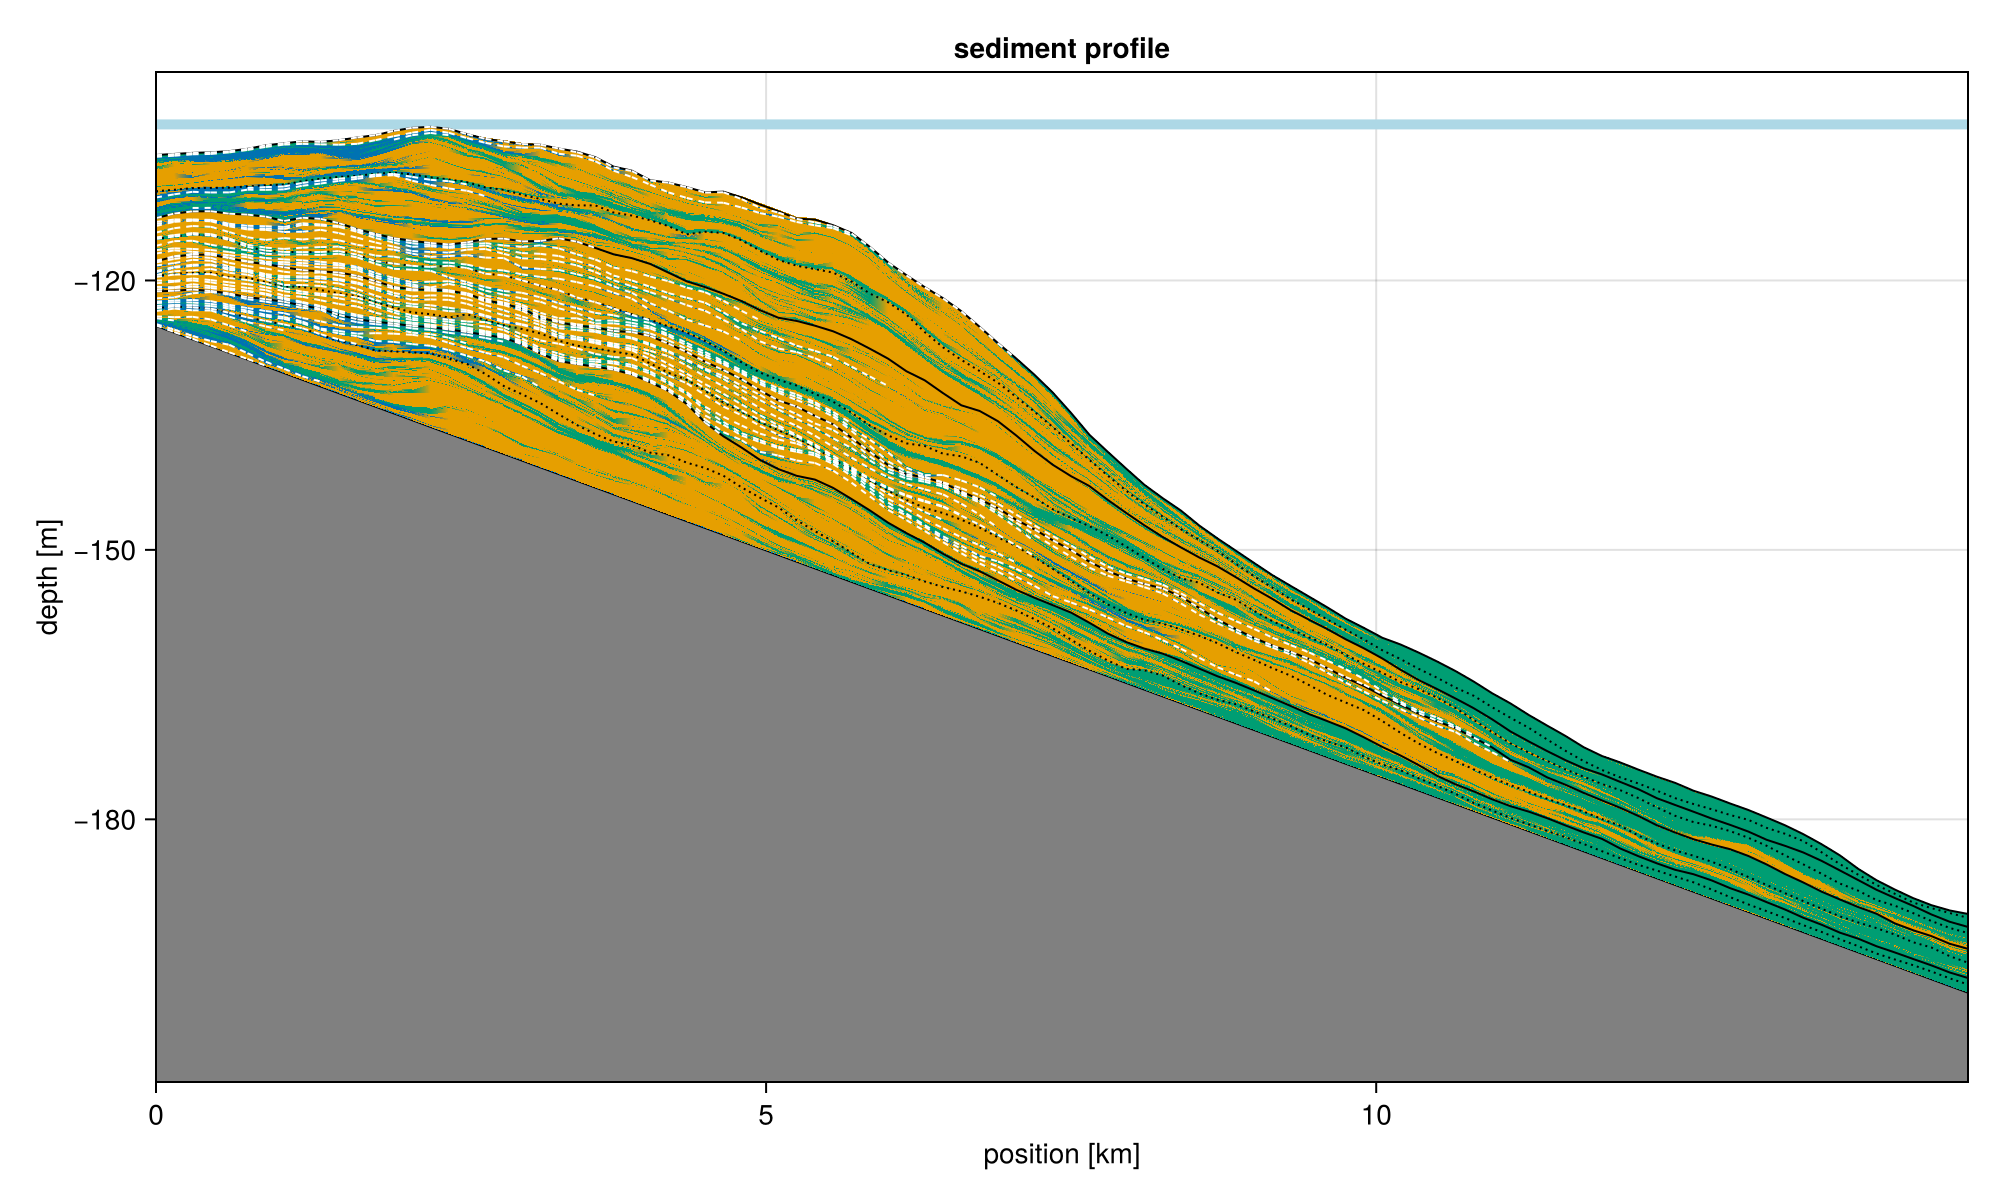
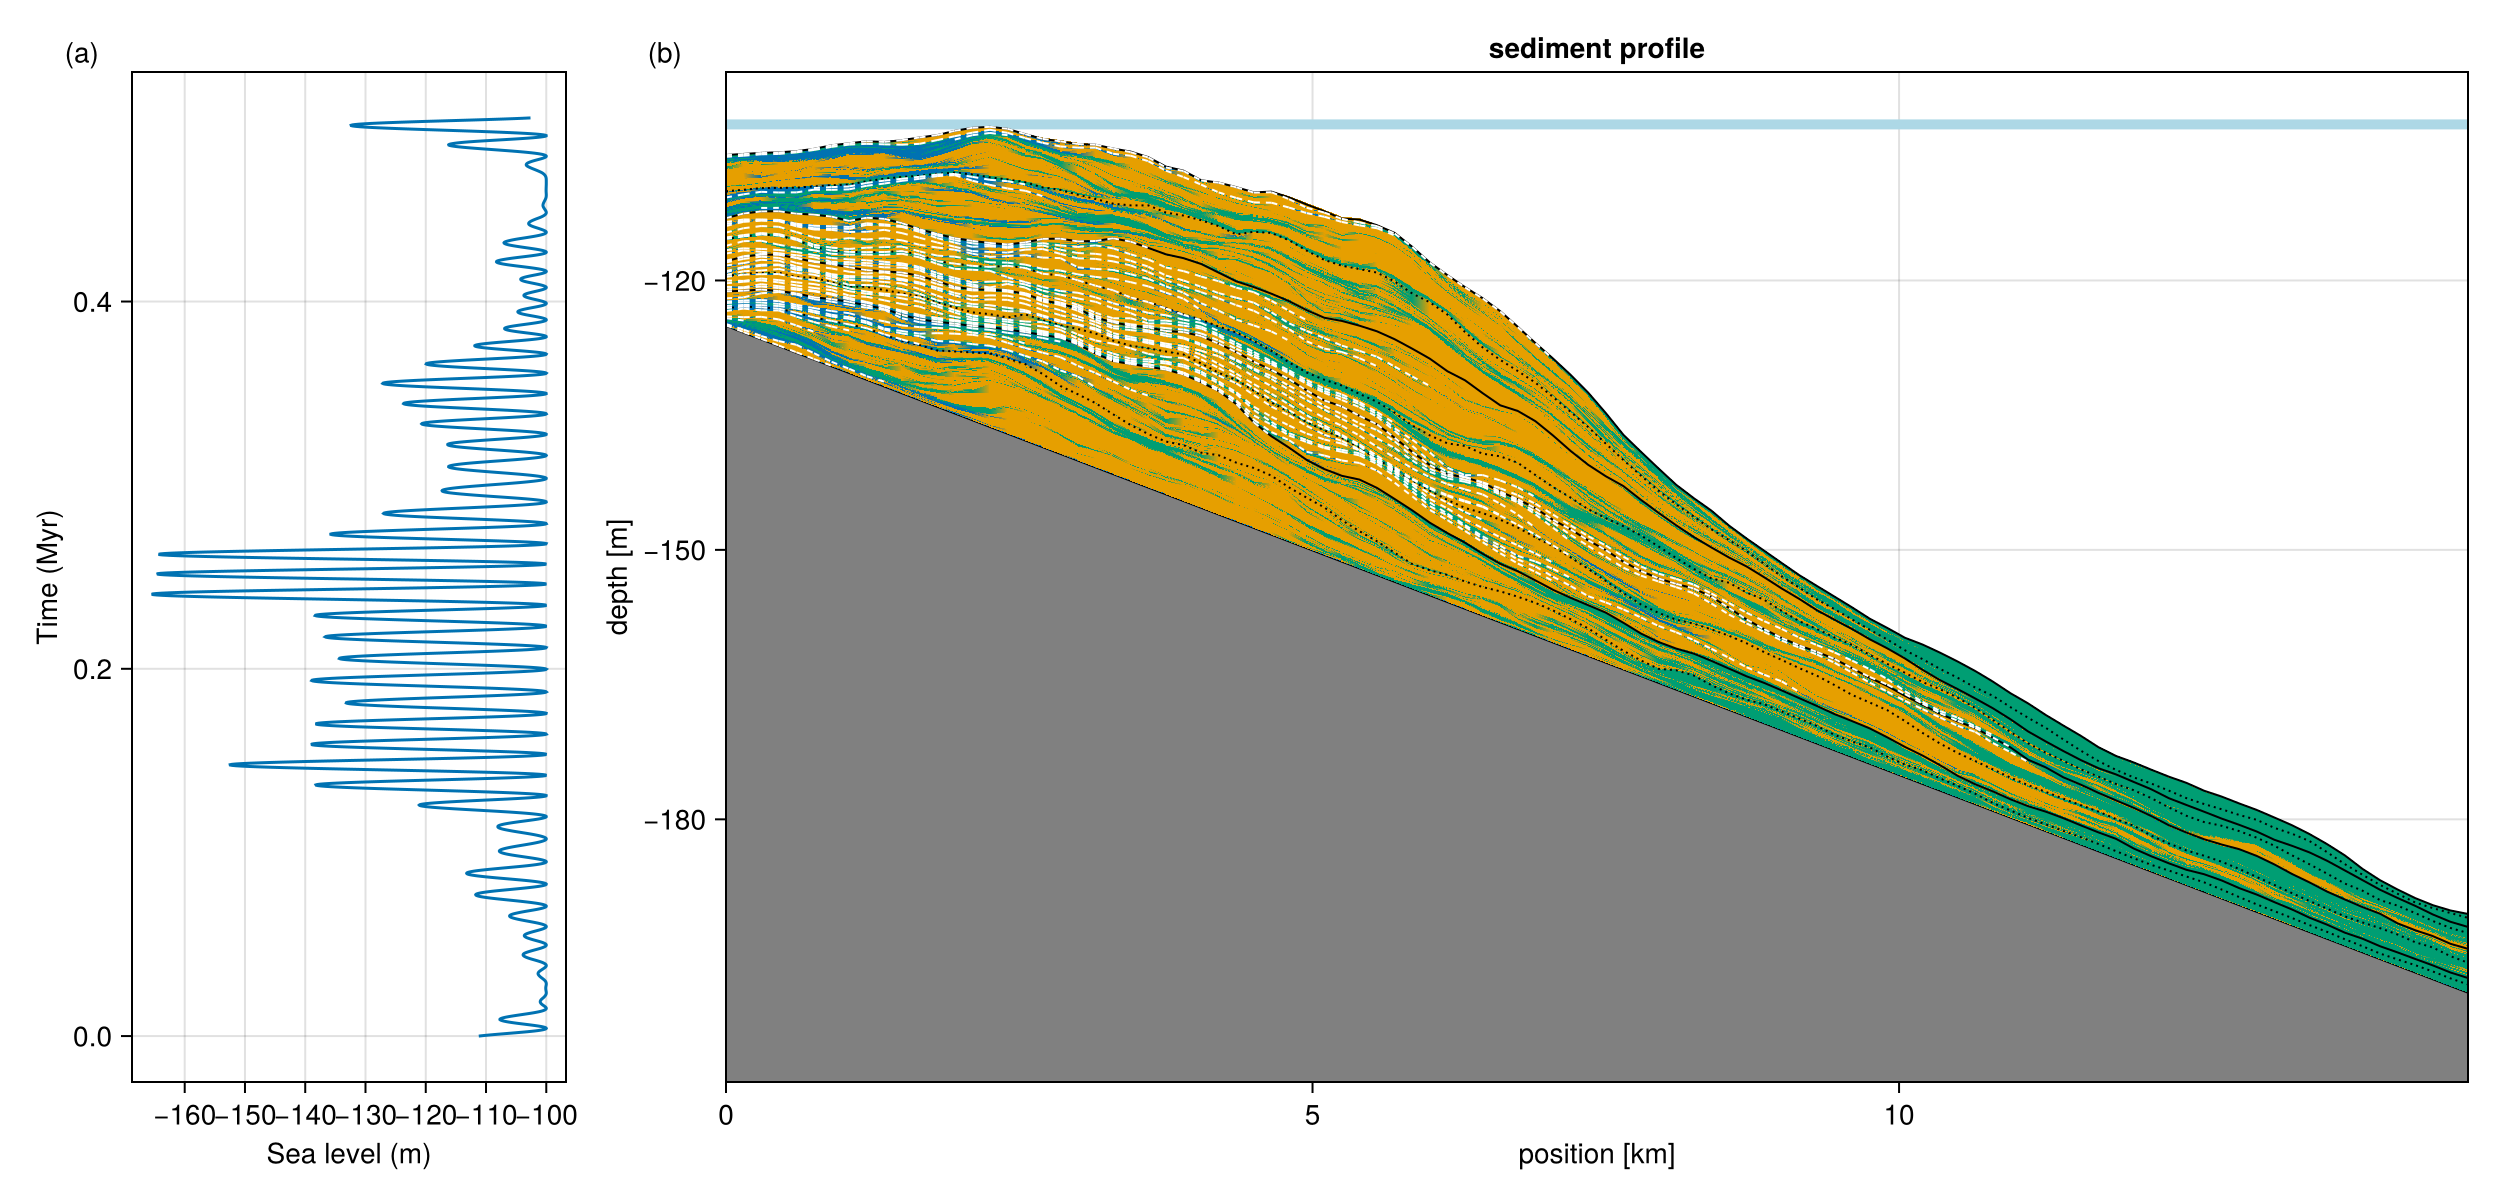
add SL curve to the insolation run as requested by Niklas

diff --git a/md/paper.md b/md/paper.md
@@ -1906,7 +1906,7 @@ using DelimitedFiles: readdlm
 using Unitful
 using Interpolations
 using CairoMakie
-using CarboKitten.Visualization: sediment_profile
+using CarboKitten.Visualization: sediment_profile, sediment_profile!
 using Statistics
 
 function import_insolation(file::String)
@@ -1985,9 +1985,26 @@ const INPUT = ALCAP.Input(
     end
 
     function plot(result::MemoryOutput)
-	    fig = sediment_profile(result.header, result.data_slices[:profile])
+        fig = Figure(size=(1250, 600))
+        ax_left = Axis(fig[1, 1])
+        ax_right = Axis(fig[1, 2])
+        colsize!(fig.layout, 1, Relative(0.2))
+        Label(fig[1, 1, TopLeft()], "(a)")
+        Label(fig[1, 2, TopLeft()], "(b)")
+
+        sl_fn = get_sea_level(time_vector, insolation_vector)
+        times = collect(time_axis(TIME_PROPERTIES))
+        sl_values = [ustrip(u"m", sl_fn(t)) for t in times]
+        times_myr = ustrip.(u"Myr", times)
+
+        lines!(ax_left, sl_values, times_myr)
+        ax_left.xlabel = "Sea level (m)"
+        ax_left.ylabel = "Time (Myr)"
+
+        sediment_profile!(ax_right, result.header, result.data_slices[:profile])
+
         save("md/fig/variable-insolation.png", fig)
-end
+    end
 
 end
 
